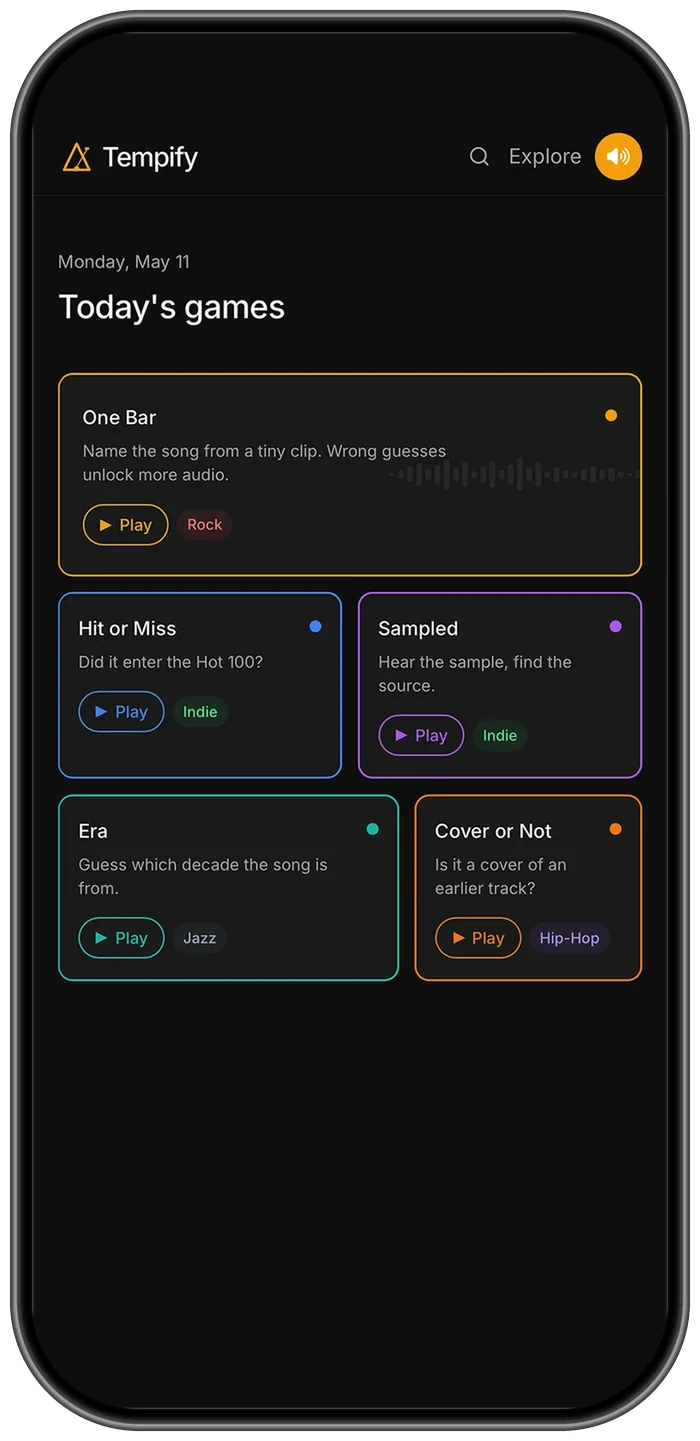
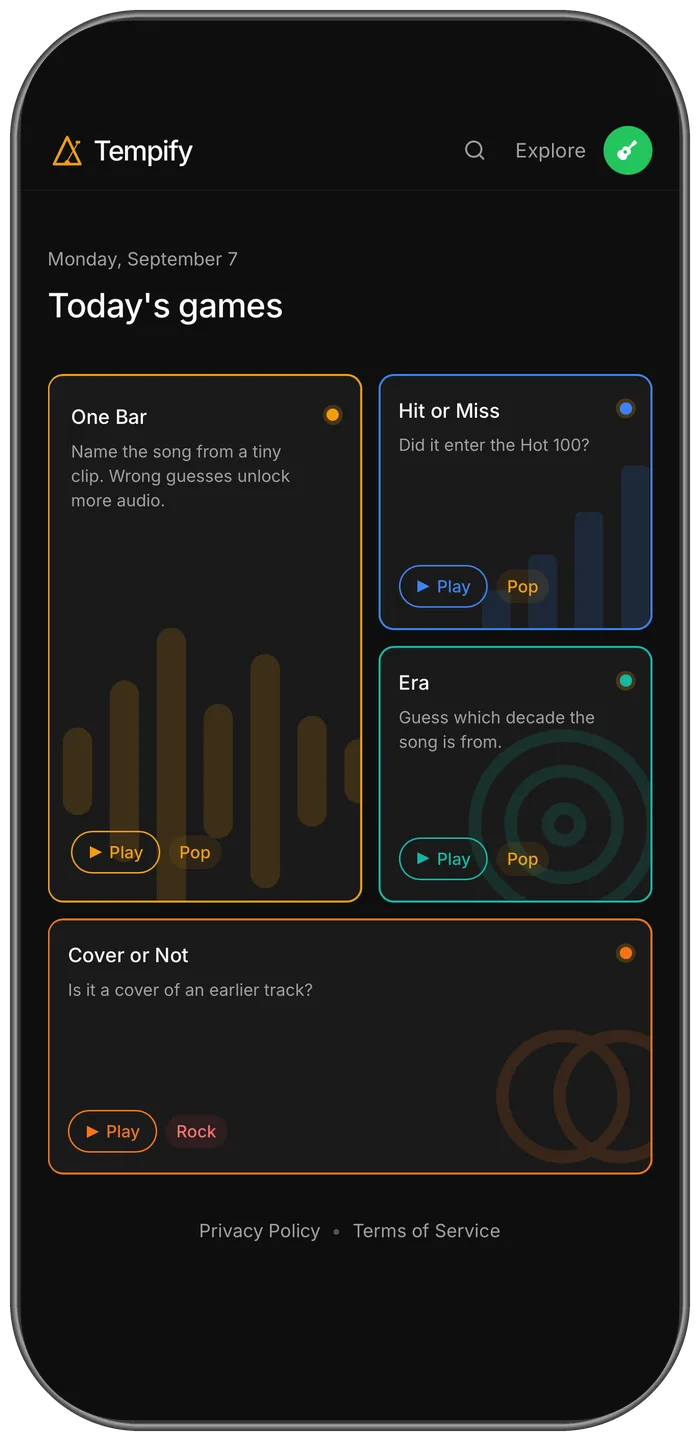
use the new tempify screens and put the otian pricing shot in dark mode

diff --git a/data.js b/data.js
@@ -200,13 +200,13 @@ window.siteData = {
     sectionTitle:["Projects."],
     items:[
       {slug:"archie",tint:"#c8703f",screenshots:[{src:"assets/screens/archie-1.webp",alt:"Agent overview: personality, skills, routines, and the agent map"},{src:"assets/screens/archie-2.webp",alt:"Drafting an email reply on desktop, mirrored in Telegram on a phone"},{src:"assets/screens/archie-3.webp",alt:"Welcome screen in light mode"}],title:"Archie",date:"2026-Ongoing",logo:"assets/archie.svg",categories:["Desktop App","AI Agents","Local-First"],summary:"Desktop app that runs a personal AI agent on your own machine, reachable from Telegram, Discord, Slack, Matrix, or iMessage on a Mac. Built at Otian AI on Tauri + Rust + React.",techStack:["Rust","Tauri 2","React","TypeScript","Tailwind CSS","SQLite","Firebase","Stripe"],demoUrl:"https://otianai.com/archie/see-it-work/",demoLabel:"Watch Demo",githubUrl:null,status:"Beta",origin:"independent",collaboration:"team",details:{problem:"The AI agent tooling that is genuinely secure and customizable is also built for engineers: terminals, config files, API keys pasted into plaintext. The people who would benefit most from an agent handling their inbox and calendar are exactly the people who cannot get one running.",observation:"We learned this by doing it manually. Setting agents up by hand for clients, one at a time, showed exactly where the friction lived: which steps tripped people up, which needed an hour of explaining, and which ones nobody should ever have to see. The same three or four steps broke every time.",hypothesis:"If the hard parts (credential storage, provider setup, chat platform connection, scheduling) are absorbed into an installable desktop app, non-technical users can own a real agent without giving up the two things that made the hard version worth it: it runs on their machine, and there is no ceiling on what it can do.",experiment:"Built Archie as a Tauri 2 desktop app for macOS and Windows: Rust backend for the agent runtime, credential handling, and scheduling; React + TypeScript frontend for setup and management. Agents are modular (Skills, Specialists, Routines, Personalities, knowledge base, long-term memory) and reachable from the chat apps people already use. Added Firebase auth with TOTP 2FA, Stripe subscription billing, a signed update feed, MCP server support, and a marketplace of add-ons that are all included with the app, so custom work built for one client becomes a listing everyone gets.",outcome:"Shipped v0.2.3 to testers on macOS and Windows with a measured cost model and a public trust document that maps every privacy claim on the site to the code that makes it true. Keys, memory, and agent state stay on the user's machine. On your own AI account, conversations go straight to the provider; the free starter credits and the optional AI-included plan run on Otian's account and pass through its server, and the trust document says so.",reflection:"Doing the work by hand first was the whole advantage. You cannot design away friction you have only read about, and every step we removed from the app was a step we had personally walked someone through. The harder discipline has been on the copy: for a product whose value is trust, a claim you cannot defend line-by-line in the source is worth less than no claim at all."}},
-      {slug:"otian-site",tint:"#e08a5b",screenshots:[{src:"assets/screens/otian-site-1.webp",alt:"Home page: Archie on a desktop, with the same agent answering in a phone chat"},{src:"assets/screens/otian-site-2.webp",alt:"A diagram of what connects to what: the agent on your own computer, the AI company, and your mail and calendar"},{src:"assets/screens/otian-site-3.webp",alt:"The three pricing cards in light mode, the same page in the other theme"},{src:"assets/screens/otian-site-4.webp",alt:"The add-on catalog: starter packs in a card grid, generated from data"}],title:"Otian AI Website",date:"2026-Ongoing",logo:"assets/otian-logo.webp",categories:["Marketing Site","Design System","Static HTML"],summary:"otianai.com: seventy-four hand-written pages with no build step, held to one look and one set of claims by scripts that run on the way to every deploy.",techStack:["HTML","CSS","JavaScript","Python","Node.js","GitHub Actions","GitHub Pages"],demoUrl:"https://www.otianai.com/",demoLabel:"Visit the site",githubUrl:null,status:"Live",origin:"independent",collaboration:"team",details:{problem:"Archie runs on the user's own machine, so the site has to carry the whole argument before anyone downloads anything: what the agent does, what it costs, where the conversations go, and why any of that should be believed. That is a lot of pages, and I did not want a framework sitting between an edit and the page a reader actually gets.",observation:"Hand-written HTML is easy to start and hard to keep. The nav alone lives in three places on every page, seventeen menu copies per page across seventy-four pages, so moving one link is more than a thousand edits. The first time we merged a page by hand, the sweep matched the way the other seventy-one pages wrote that link and missed the one page whose links were written differently, which was the page the merge was about.",hypothesis:"If nothing has to be checked by eye, the site can stay hand-written. Give every rule a person would otherwise have to remember its own script, run all of them on the way to the deploy, and having no build step stops being the reason the site drifts.",experiment:"Built otianai.com as static HTML on GitHub Pages: a folder per page, one stylesheet, one nav script, no build step. Then wrote the checks around it. check-nav.py compares all seventeen menu copies on all seventy-four pages against the menu the majority carries, so a deliberate change needs no list kept up to date and an accidental one cannot hide. check-links.py fails when one of our own pages reaches its own content through a redirect stub. check-contrast.mjs reads the real color values out of the stylesheet, so a token nudged to taste fails there and not in someone's browser. Generators build the blog, the glossary, and the add-on catalog from data instead of by hand. Everything runs inside the GitHub Actions workflow, which is the only door between a push to main and the live site. Alongside that I wrote down one grammar every page inherits: bands that alternate, one idea per band, and two accents split by meaning, so orange is only ever the agent doing something and blue is only ever assurance.",outcome:"Seventy-four pages read as one site and go live on a push, with the checks standing in between. The contrast script caught a focus ring measuring 2.38:1 and form borders at 1.36:1 that had been live for months: a site you could not navigate by keyboard and text fields with no visible edge. The trust contract is the other half of this, and it is what the copy has to clear before it ships.",reflection:"A build step is consistency you buy instead of earn, and I wanted the opposite here: HTML plain enough that anyone can open a page and see exactly what the reader gets, with the effort spent on checks that fail loudly. The scripts folder is also the honest record of what we got wrong, because every script in it exists because something shipped broken first."}},
+      {slug:"otian-site",tint:"#e08a5b",screenshots:[{src:"assets/screens/otian-site-1.webp",alt:"Home page: Archie on a desktop, with the same agent answering in a phone chat"},{src:"assets/screens/otian-site-2.webp",alt:"A diagram of what connects to what: the agent on your own computer, the AI company, and your mail and calendar"},{src:"assets/screens/otian-site-3.webp",alt:"The three pricing cards side by side, each claim on the plan it belongs to"},{src:"assets/screens/otian-site-4.webp",alt:"The add-on catalog: starter packs in a card grid, generated from data"}],title:"Otian AI Website",date:"2026-Ongoing",logo:"assets/otian-logo.webp",categories:["Marketing Site","Design System","Static HTML"],summary:"otianai.com: seventy-four hand-written pages with no build step, held to one look and one set of claims by scripts that run on the way to every deploy.",techStack:["HTML","CSS","JavaScript","Python","Node.js","GitHub Actions","GitHub Pages"],demoUrl:"https://www.otianai.com/",demoLabel:"Visit the site",githubUrl:null,status:"Live",origin:"independent",collaboration:"team",details:{problem:"Archie runs on the user's own machine, so the site has to carry the whole argument before anyone downloads anything: what the agent does, what it costs, where the conversations go, and why any of that should be believed. That is a lot of pages, and I did not want a framework sitting between an edit and the page a reader actually gets.",observation:"Hand-written HTML is easy to start and hard to keep. The nav alone lives in three places on every page, seventeen menu copies per page across seventy-four pages, so moving one link is more than a thousand edits. The first time we merged a page by hand, the sweep matched the way the other seventy-one pages wrote that link and missed the one page whose links were written differently, which was the page the merge was about.",hypothesis:"If nothing has to be checked by eye, the site can stay hand-written. Give every rule a person would otherwise have to remember its own script, run all of them on the way to the deploy, and having no build step stops being the reason the site drifts.",experiment:"Built otianai.com as static HTML on GitHub Pages: a folder per page, one stylesheet, one nav script, no build step. Then wrote the checks around it. check-nav.py compares all seventeen menu copies on all seventy-four pages against the menu the majority carries, so a deliberate change needs no list kept up to date and an accidental one cannot hide. check-links.py fails when one of our own pages reaches its own content through a redirect stub. check-contrast.mjs reads the real color values out of the stylesheet, so a token nudged to taste fails there and not in someone's browser. Generators build the blog, the glossary, and the add-on catalog from data instead of by hand. Everything runs inside the GitHub Actions workflow, which is the only door between a push to main and the live site. Alongside that I wrote down one grammar every page inherits: bands that alternate, one idea per band, and two accents split by meaning, so orange is only ever the agent doing something and blue is only ever assurance.",outcome:"Seventy-four pages read as one site and go live on a push, with the checks standing in between. The contrast script caught a focus ring measuring 2.38:1 and form borders at 1.36:1 that had been live for months: a site you could not navigate by keyboard and text fields with no visible edge. The trust contract is the other half of this, and it is what the copy has to clear before it ships.",reflection:"A build step is consistency you buy instead of earn, and I wanted the opposite here: HTML plain enough that anyone can open a page and see exactly what the reader gets, with the effort spent on checks that fail loudly. The scripts folder is also the honest record of what we got wrong, because every script in it exists because something shipped broken first."}},
       {slug:"otian-trust",parent:"otian-site",tint:"#d17a3c",title:"Otian Trust Contract",date:"2026-Ongoing",logo:"assets/otian-logo.webp",categories:["Process","Verification","Technical Writing"],summary:"Every privacy and pricing claim on otianai.com tied to the code, with a build that fails on drift.",techStack:["Python","Node.js","Markdown","Static HTML","GitHub Actions"],demoUrl:"https://www.otianai.com/trust/",demoLabel:"Read the trust page",githubUrl:null,status:"Live",origin:"independent",collaboration:"team",details:{problem:"Otian sells trust: an agent that runs on your machine with your own keys. Every privacy sentence is one marketing wants to sharpen and engineering has to defend line by line. The site is seventy-four hand-written HTML pages with no build step, so the same price is typed into eleven files, and a claim that was true in July drifts quietly as the code changes.",observation:"The first full reconciliation checked 473 claims against the Archie source and found 298 held exactly. The rest were not lies, they were drift: a provider count written as five when it had become seven, a heartbeat off switch documented under the wrong settings page, and an absolute like nothing passes through us that stopped being true the day free starter credits shipped.",hypothesis:"If every claim has to live in one file, in approved wording, with a pointer to the code that makes it true, and a script fails the build on any number that is not in a facts ledger, then copy cannot outrun the code. The person who knows what the code does holds a veto over the person who writes the sentence, and that veto survives a good pitch.",experiment:"Wrote TRUST.md, now about 1,700 lines: each claim carries approved wording, a why-it-is-true section with file and line pointers into the Archie repo, explicit boundaries, and banned phrasings. Wrote FACTS.md as the only place a money figure may come from, and check-facts.py, which scans every served page for dollar figures, fails on any not in the ledger, and expires competitor prices not re-checked within 90 days. Sibling scripts check claim drift, contrast, content security policy, copy length, and input labels before a commit lands.",outcome:"Every privacy claim on otianai.com resolves to a line of Archie source, and the public trust page, its details page, and an IT review page are written from that one contract. When the free-credit proxy and the AI-included plan shipped, the absolute nothing passes through our servers was retired site-wide in the same change, and the pages now say exactly which two cases pass through Otian and why.",reflection:"This is the CS and PR overlap in practice. The hard part was never the script. It was agreeing that a sentence you cannot defend line by line is worth less than no sentence, and building that into the process. It also caught this portfolio: an earlier draft of this site repeated three Archie claims the contract had already retired, and the fix was to read the contract, not the marketing."}},
       {slug:"studioflow",tint:"#3a8fd9",title:"Studioflow",date:"2026-Ongoing",logo:"assets/studioflow.png",categories:["Web App","Music Media Management","PWA Compatible"],summary:"A collaborative web app for music creators to work together on songs and manage project assets using Google Drive and cloud storage.",techStack:["React","Vite","Express.js","Prisma", "AWS S3","Google Drive API","Docker"],demoUrl:"https://studioflow-music.vercel.app",githubUrl:"https://github.com/JettNguyen/Studioflow",status:"Live",origin:"independent",collaboration:"solo",details:{problem:"Independent music producers collaborating directly with vocalists and other creatives face fragmented workflows that span Apple Notes, Google Drive for stems, drive folders for social content, and scattered project references.",observation:"Artists want a single central website for music collaboration with music-tailored UI/UX that keeps collaboration simple and focused on creative work rather than tool management.",hypothesis:"A dedicated music collaboration web app that centralizes notes, audio assets, project context, and sharing will replace the current scattered set of tools and reduce friction for producers, vocalists, and collaborators.",experiment:"Designed Studioflow to keep collaboration simple and central for music, with a polished web client for artists, a small Express API backend, and integrated storage workflows for Google Drive and AWS S3. Focused on making the UI/UX feel bespoke for music creators and minimizing setup complexity.",outcome:"Created a more cohesive collaboration experience where music creators can keep project assets, notes, and sharing in one place instead of fragmented across generic tools.",reflection:"The strongest value came from tailoring the experience directly to artists and creatives, like me, in music, making collaboration feel intentional, centralized, and easy to maintain."}},
       {slug:"sideline",tint:"#2f8f4e",screenshots:[{src:"assets/screens/sideline-1.webp",alt:"Dashboard with the team card and upcoming matches"},{src:"assets/screens/sideline-2.webp",alt:"Match video with tagged moments on the scrub bar"},{src:"assets/screens/sideline-3.webp",alt:"Team page with roster and games"},{src:"assets/screens/sideline-4.webp",alt:"Team invite code screen"}],title:"Sideline",date:"2026",logo:"assets/sideline.webp",categories:["Mobile-First Web App","Sports Media","Video Collaboration"],summary:"User-centered web app for youth soccer families to upload, organize, share, and collaboratively tag game clips.",techStack:["React","Node.js","Express.js","MongoDB","JWT","AWS S3","PWA"],githubUrl:"https://github.com/JettNguyen/Sideline",demoUrl:"https://jettnguyen.github.io/Sideline",status:"Completed",origin:"school",collaboration:"team", details:{problem:"At the top of the funnel are parents recording youth soccer games for memory keeping, sharing, and review, but current workflows are fragmented and existing tools do not fit their specific needs.",observation:"Research indicates this audience is primarily white millennial mothers who need a simple, mobile-first flow for team coordination, game uploads, and finding meaningful moments inside large video sets.",hypothesis:"A minimal, familiar interface paired with team-based video workflows and key-moment tagging will reduce friction from recording to replay while improving collaboration among families.",experiment:"Built a React frontend on a Node and Express API, with MongoDB for users, teams, matches, and video metadata, JWT auth with email verification, and AWS S3 behind signed URLs for the footage. I was the frontend developer on a four-person team, owning the React interface and UI/UX, with layouts designed around one-handed phone use.",outcome:"The final build shipped verified accounts, team creation with invite codes and scannable QR invites, coach, parent, and player roles, match scheduling, video upload with in-app playback, and timestamped Goal, Save, and Great Play tags on the scrub bar. It deployed as an installable PWA with the frontend on GitHub Pages and the API on Render. Testing was manual: five representative test cases passed with no critical failures. Audio-based video sync, camera position detection, and per-player tagging were scoped out, and the project was retired after the final presentation in April 2026.",reflection:"The strongest lesson is that this product succeeds only when complexity stays behind the scenes: login, dashboard, team/game navigation, invite flow (QR/join code), and crowdsourced clip tagging must feel effortless for non-technical parents."},posterUrl:"assets/sideline-poster.webp"},
       {slug:"stackd",tint:"#ea6b1e",screenshots:[{src:"assets/screens/stackd-1.webp",alt:"Home with your stacks and classes",caption:"pitch deck mockup"},{src:"assets/screens/stackd-2.webp",alt:"Study mode with review and mastered marks",caption:"pitch deck mockup"}],title:"Stackd",date:"2026",logo:"assets/stackd.webp",categories:["Web App","Education","Spaced Repetition"],summary:"Mobile-first flashcard app with custom decks, no screen clutter, and UF-specific features.",techStack:["React","TypeScript","Node.js","Express","MongoDB","JWT","Google Gemini","PWA"],githubUrl:"https://github.com/JettNguyen/Stackd",demoUrl:"https://jettnguyen.github.io/Stackd",status:"Live",origin:"school",collaboration:"team",details:{problem:"Existing flashcard apps are designed for everybody rather than specific user needs, which can be overwhelming and often lack flexibility in deck creation and organization.",observation:"UF students in memorization-heavy courses want a simple way to create and review flashcards without being forced into complex features or rigid structures.",hypothesis:"A minimalist flashcard app with intuitive deck management can improve the study experience without the clutter of general-purpose tools.",experiment:"Built a React PWA on a TypeScript Express API with MongoDB and JWT auth, on a four-person team where I was the lead contributor. Cards can be written by hand, imported from exported Quizlet text, or generated with Google Gemini from a topic or uploaded files. Study mode flips cards and tracks per-card Review and Mastered states, and per-stack and per-class roles (viewer, editor, owner) control who can edit and share.",outcome:"Shipped with registration and emailed password resets, stack and class management with public or private visibility, optional public profiles, and an installable PWA, with the frontend deployed to GitHub Pages by GitHub Actions and the API on Render. No formal user study was run.",reflection:"Educational tools succeed when they minimize friction and cognitive load, letting users engage with the learning material directly."}},
       {slug:"nightlink",tint:"#4fc9e8",appStoreUrl:"https://apps.apple.com/us/app/nightlink-social/id6768789704?ppid=51e85a05-3f4b-4016-a6f3-34fd77ba46df",appStoreName:"Nightlink Social",micrositeUrl:"/nightlink/",screenshots:[{src:"assets/screens/nightlink-1.webp",alt:"Dream journal with privacy tags"},{src:"assets/screens/nightlink-2.webp",alt:"AI dream analysis card"},{src:"assets/screens/nightlink-3.webp",alt:"Feed of public dreams"}],title:"Nightlink",date:"2025-Ongoing",logo:"assets/nightlink.png",categories:["iOS App","Social Network","AI-Integration"],summary:"Dream journal and social network with AI-generated dream titles/summaries, privacy controls, and social interactions on React + Firebase.",techStack:["React 18","Vite","Firebase Auth","Firestore","Node.js","Capacitor","GitHub Actions","Vercel"],githubUrl:"https://github.com/JettNguyen/Nightlink",demoUrl:"https://nightlink.dev",status:"Live",origin:"independent",collaboration:"solo",details:{problem:"Most dream journals are private-only and low-retention, while social apps are not designed for reflective dream logging.",observation:"People want to keep some dreams private, share others selectively, and still get meaningful interpretation support.",hypothesis:"A hybrid product combining private journaling, social feed controls, and lightweight AI analysis increases long-term journaling consistency.",experiment:"Built with React 18 + Vite, Firebase Auth/Firestore, and an AI proxy endpoint. Added private/public visibility, tagging, following, profiles, comments, reactions, and CI/CD with GitHub Actions + CodeQL.",outcome:"Delivered an end-to-end journaling platform with social mechanics and maintainable quality gates (lint/build matrix + security scans), ready for iterative UX experiments. It cleared App Store review and ships as Nightlink Social on iOS, with Sign in with Apple and the account controls the store requires.",reflection:"Nightlink validated that privacy granularity and social features can coexist when visibility and identity controls are explicit in the product model."}},
-      {slug:"tempify",tint:"#f0a41e",appStoreUrl:"https://apps.apple.com/us/app/tempify-me/id6765572192?ppid=f2aa16bb-7d62-49df-bafe-8c35f58c63ad",appStoreName:"Tempify.me",micrositeUrl:"/tempify/",screenshots:[{src:"assets/screens/tempify-1.webp",alt:"Today's five games"},{src:"assets/screens/tempify-2.webp",alt:"One Bar: guess the song from one bar"},{src:"assets/screens/tempify-3.webp",alt:"Sampled: find the source track"},{src:"assets/screens/tempify-4.webp",alt:"Profile with streaks, stats, and Tempify+"}],title:"Tempify",date:"2026-Ongoing",logo:"assets/tempify.png",categories:["iOS App","Web Game","Music Trivia"],summary:"Daily music game suite inspired by LinkedIn and NYT-style habits, combining multiple music trivia formats into one consistent daily experience.",techStack:["React","Vite","Tailwind CSS","Supabase","Stripe","Capacitor","PWA"],demoUrl:"https://tempify.me",githubUrl:"https://github.com/JettNguyen/Tempify",status:"Live",origin:"independent",collaboration:"solo",details:{problem:"Daily puzzle apps like LinkedIn games and NYT Games create strong habits, but there isn't an equivalent for music despite how universally people engage with it. Music fans either passively listen or jump between scattered trivia experiences that lack consistency and replay structure.",observation:"From my own habits, I consistently return to daily games and also spend a large part of my day listening to music. The engagement patterns are similar: quick sessions, repeatable formats, and a sense of progression. But these two worlds rarely intersect in a cohesive way.",hypothesis:"If music trivia is structured like a daily game suite with multiple formats, daily drops, and optional progression tracking, it can create the same habit-forming loop as popular daily puzzle platforms while tapping into users' existing connection to music.",experiment:"Built Tempify as a React + Vite PWA that delivers five distinct music games each day, designed for quick, repeatable sessions. Integrated Supabase for accounts and streak tracking, and Stripe for a premium archive that unlocks past puzzles and advanced stats. Focused heavily on fast load times, minimal friction, and mobile-first usability to mirror the feel of existing daily game platforms.",outcome:"Launched a live daily music game suite with consistent content drops, account-based streaks, and a monetized archive system. The same build is wrapped with Capacitor and passed App Store review, so it ships as Tempify.me on iOS alongside the web app. Users can engage casually each day or go deeper through the premium backlog.",reflection:"The biggest insight was that habit matters more than complexity. Structuring music interaction as a daily ritual, rather than a one-off quiz, makes the experience stick. The strongest direction forward is continuing to refine that loop while expanding variety without increasing friction."}},
+      {slug:"tempify",tint:"#f0a41e",appStoreUrl:"https://apps.apple.com/us/app/tempify-me/id6765572192?ppid=f2aa16bb-7d62-49df-bafe-8c35f58c63ad",appStoreName:"Tempify.me",micrositeUrl:"/tempify/",screenshots:[{src:"assets/screens/tempify-1.webp",alt:"Today's games on the home screen"},{src:"assets/screens/tempify-2.webp",alt:"One Bar solved, with the friends leaderboard underneath"},{src:"assets/screens/tempify-3.webp",alt:"Hit or Miss: did the song ever reach the Billboard Hot 100"},{src:"assets/screens/tempify-4.webp",alt:"Profile with per-game streaks, win rate, and the premium stats"}],title:"Tempify",date:"2026-Ongoing",logo:"assets/tempify.png",categories:["iOS App","Web Game","Music Trivia"],summary:"Daily music game suite inspired by LinkedIn and NYT-style habits, combining multiple music trivia formats into one consistent daily experience.",techStack:["React","Vite","Tailwind CSS","Supabase","Stripe","Capacitor","PWA"],demoUrl:"https://tempify.me",githubUrl:"https://github.com/JettNguyen/Tempify",status:"Live",origin:"independent",collaboration:"solo",details:{problem:"Daily puzzle apps like LinkedIn games and NYT Games create strong habits, but there isn't an equivalent for music despite how universally people engage with it. Music fans either passively listen or jump between scattered trivia experiences that lack consistency and replay structure.",observation:"From my own habits, I consistently return to daily games and also spend a large part of my day listening to music. The engagement patterns are similar: quick sessions, repeatable formats, and a sense of progression. But these two worlds rarely intersect in a cohesive way.",hypothesis:"If music trivia is structured like a daily game suite with multiple formats, daily drops, and optional progression tracking, it can create the same habit-forming loop as popular daily puzzle platforms while tapping into users' existing connection to music.",experiment:"Built Tempify as a React + Vite PWA that delivers five distinct music games each day, designed for quick, repeatable sessions. Integrated Supabase for accounts and streak tracking, and Stripe for a premium archive that unlocks past puzzles and advanced stats. Focused heavily on fast load times, minimal friction, and mobile-first usability to mirror the feel of existing daily game platforms.",outcome:"Launched a live daily music game suite with consistent content drops, account-based streaks, and a monetized archive system. The same build is wrapped with Capacitor and passed App Store review, so it ships as Tempify.me on iOS alongside the web app. Users can engage casually each day or go deeper through the premium backlog.",reflection:"The biggest insight was that habit matters more than complexity. Structuring music interaction as a daily ritual, rather than a one-off quiz, makes the experience stick. The strongest direction forward is continuing to refine that loop while expanding variety without increasing friction."}},
       {slug:"networks",tint:"#3f8fd0",title:"P2P File Sharing",date:"2026",logo:"assets/p2p.webp",categories:["Networking","File Sharing"],summary:"Peer-to-peer file sharing application with a custom TCP protocol supporting direct transfers without central servers.",techStack:["TCP","Peer-to-Peer Networking","File Sharing"],githubUrl:"https://github.com/JettNguyen/networks-project",demoUrl:null,status:null,origin:"school",collaboration:"team",details:{problem:"Existing file sharing apps are often complex and require a central server for management and distribution.",observation:"Users want a simple and efficient way to share files directly without relying on central servers.",hypothesis:"A peer-to-peer file sharing application with a custom TCP protocol can provide a more efficient and decentralized solution.",experiment:"Built a P2P file sharing application with a custom TCP protocol, supporting direct transfers between users without central servers.",outcome:"Completed for CNT4007 in Spring 2026 as a team project.",reflection:"Decentralized applications can offer more control and efficiency for users, reducing reliance on central infrastructure."}},
       {slug:"splitsy",tint:"#8a4bf0",study:{method:"Ten college students each split the same restaurant bill twice, by hand and with Splitsy, in randomized order, thinking aloud, then rated the experience on a visual analog scale. In person at the University of Florida, December 2025.",time:{manual:102.0,splitsy:69.2,sdManual:55.61,sdSplitsy:32.54,t:2.511,p:0.0166},satisfaction:{mean:88.3,sd:11.01,min:62,max:100,benchmark:50}},title:"Splitsy",date:"2025",logo:"assets/splitsy.webp",categories:["Mobile App","FinTech","OCR"],summary:"React Native expense-splitting app with OCR receipt scanning and group management. User testing showed ~33s task time reduction vs manual splitting.",techStack:["React Native","Expo","Node.js","MongoDB","JWT","Python","Tesseract OCR"],githubUrl:"https://github.com/JettNguyen/Splitsy",demoUrl:null,status:null,origin:"school",collaboration:"team",details:{problem:"Manual bill splitting is slow and error-prone, especially for recurring group expenses and itemized receipts.",observation:"Users need one flow spanning scan → assign → split → track, rather than disconnected calculators and chat messages.",hypothesis:"OCR-assisted input with shared group context reduces completion time and improves perceived ease versus manual splitting.",experiment:"Built the mobile app in React Native and Expo on a Node, Express, and MongoDB backend with JWT auth, friend and group management, transaction CRUD, and a Python Flask microservice running Tesseract OCR. On a five-person team I built frontend components, supported backend integration, and edited the demo video. We then ran a ten-participant within-subjects study.",outcome:"In a ten-person within-subjects study, splitting a restaurant bill took 69.2 seconds with Splitsy against 102.0 seconds by hand, a 32.8 second reduction (paired t-test, p = 0.017), and satisfaction averaged 88.3 of 100. Participants called it much faster and said the navigation made sequential sense; the most requested additions were a gratuity option and a clearer settled-expense indicator.",reflection:"Cross-platform collaboration apps succeed when technical complexity (OCR, auth, multi-service setup) is hidden behind a tight user flow."}},
       {slug:"frequify",tint:"#e8399a",title:"Frequify",date:"2026-Ongoing",logo:"assets/FrequifySquare.png",categories:["Desktop App","Audio","DSP"],summary:"Windows desktop mastering tool offering EQ, compression, saturation, stereo, limiter, A/B playback, and WAV export in a fully offline workflow.",techStack:[".NET 8","Windows Desktop","Audio DSP","WAV/MP3"],githubUrl:"https://github.com/JettNguyen/Frequify",demoUrl:null,status:null,origin:"independent",collaboration:"solo",details:{problem:"Independent creators often need mastering improvements without opaque black-box tools or online-only processing.",observation:"Users care about understandable controls, A/B comparison, and dependable local exports more than novelty presets alone.",hypothesis:"A desktop-first mastering workflow with analysis metrics and explicit chain controls improves trust and practical output quality.",experiment:"Implemented WAV/MP3 loading, loudness/peak analysis, mastering chain controls (EQ, compression, saturation, stereo, limiter), original/mastered A/B playback, and WAV export in a portable Windows build.",outcome:"Shipped a fully local app with straightforward install/run flow, offline operation, and clear troubleshooting for common audio and export failures.",reflection:"For creative tools, controllability and transparency are as important as DSP quality. Users need to hear and understand each adjustment."}},
